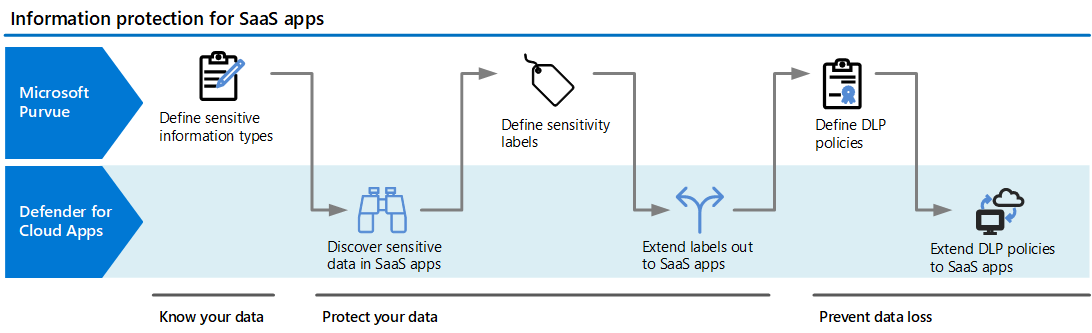
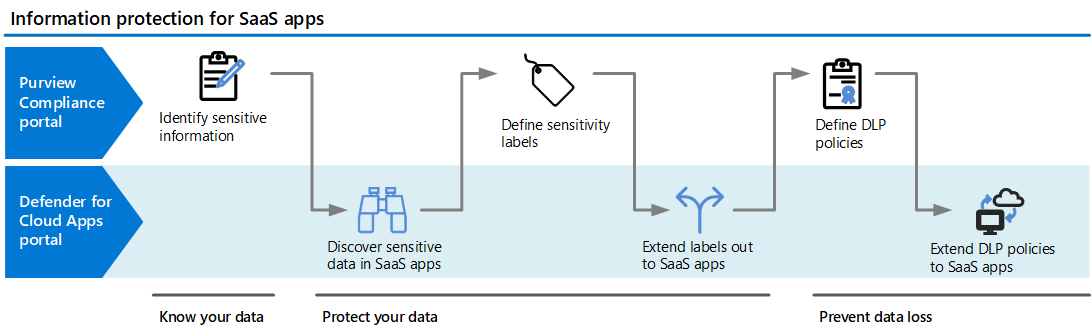
update

Changed region(s): [[0.0, 0.5706, 0.1245, 0.7508], [0.0, 0.2402, 0.0934, 0.3904], [0.1245, 0.3303, 0.2491, 0.4505]]

diff --git a/zero-trust/deploy-information-protection-saas.md b/zero-trust/deploy-information-protection-saas.md
@@ -25,19 +25,20 @@ In this illustration:
 - To protect data in SaaS apps, you must first determine what information in your organization has that's considered to be sensitive information. After doing that, check to see if any of the sensitive information types (SIT) map to the type of information. If none of the information types meet your needs, you can modify them or create your custom SIT. You can define sensitive information types using the Microsoft Purview compliance portal.
 - Using the defined sensitive information types, you can discover items that contain sensitive data in SaaS apps.
 - After discovering items that contain sensitive data, you can extend labels out to SaaS apps and then apply them.
-- To prevent data loss, you can define then extend data loss prevention (DLP) policies protection actions such as encryption, access restrictions, and other actions. For more information, see [Microsoft Defender for Cloud Apps actions](/microsoft-365/compliance/dlp-policy-reference#microsoft-defender-for-cloud-apps-actions) for supported actions. 
+- To prevent data loss, you can define then extend data loss prevention (DLP) policies. With a DLP policy, you can identify, monitor, and automatically protect sensitive items across services. Some examples of the protective actions of DLP policies include showing a pop-up policy tip to a user when a user tries to share a sensitive item inappropriately. Other examples include block the sharing of data, and  sensitive items being locked and moved to a secure quarantine location. 
 
 
 Use the following steps to guide you in using Microsoft 365 products so that you can apply information protection capabilities on SaaS apps:
 
 
-|Step  |Description  | License
+|Step  |Description  
 |---------|---------|---------|
-|1     |  Discover sensitive information in SaaS apps       |  A3, A5, E3, E5
-|2     |  Apply sensitivity labels to SaaS apps   |     A3, A5, E3, E5
-|3     |  Protect your data  |    A5, E5, F5, P2
-|4     |  Extend DLP policies to cloud apps | Microsoft Purview: <br>A3, A5, E3, E5 <br><br> Defender for Cloud Apps: <br> A5, E5, F5, P2
-|5     |  Monitor and report on your data | A5, E5, F5, P2
+|1     |  Discover sensitive information in SaaS apps       
+|2     |  Apply sensitivity labels to protect data  
+|3    |  Extend DLP policies to cloud apps 
+|4    |  Monitor and report on your data 
+
+
 
 
 
@@ -69,7 +70,7 @@ Session policies scan and protect files in real time on access to prevent data e
 For more information, see [Microsoft Data Classification Services integration](/defender-cloud-apps/dcs-inspection).
 
 
-## Apply sensitivity labels to SaaS apps
+## Apply sensitivity labels to protect data
 After discovering and sorting sensitive information, you need to apply sensitivity labels. When a sensitivity label is applied to an email or document, any configured protection settings for that label are enforced on the content. For example, a file that is labeled "Confidential" may be encrypted and have a "Confidential" watermark applied to it.
 
 Defender for Cloud Apps is natively integrated with Microsoft Purview Information Protection and the same sensitive types and labels are available throughout both services. So when you want to define sensitive information, head over to the Microsoft Purview Information Protection portal to create them, and once defined they will be available in Defender for Cloud Apps.
@@ -78,16 +79,6 @@ Defender for Cloud Apps is natively integrated with Microsoft Purview Informatio
 Defender for Cloud Apps lets you automatically apply sensitivity labels from Microsoft Purview Information Protection. These labels will be applied to files as a file policy governance action, and depending on the label configuration, can apply encryption for additional protection.
 
 For more information, see [Apply Microsoft Purview Information Protection labels automatically](/defender-cloud-apps/use-case-information-protection).
-
-
-## Protect your data
-After applying sensitivity labels and identifying files with sensitive information, you'll want to take action on the files to protect them.   Actions include, but are not limited to, Microsoft Purview Information Protection native controls, API provided actions, and real-time monitoring. The kind of governance you can apply depends on the type of policy you are configuring. 
-
-
-You can apply file governance actions which uses cloud app provider's API and our native integrations to secure files. You can also use session policy controls which uses reverse proxy capabilities to protect files. 
-
-For more information see, [File governance actions](/defender-cloud-apps/governance-actions#file-governance-actions) and [Session policies](/defender-cloud-apps/session-policy-aad).
-
 
 
 ## Extend DLP policies to SaaS apps
